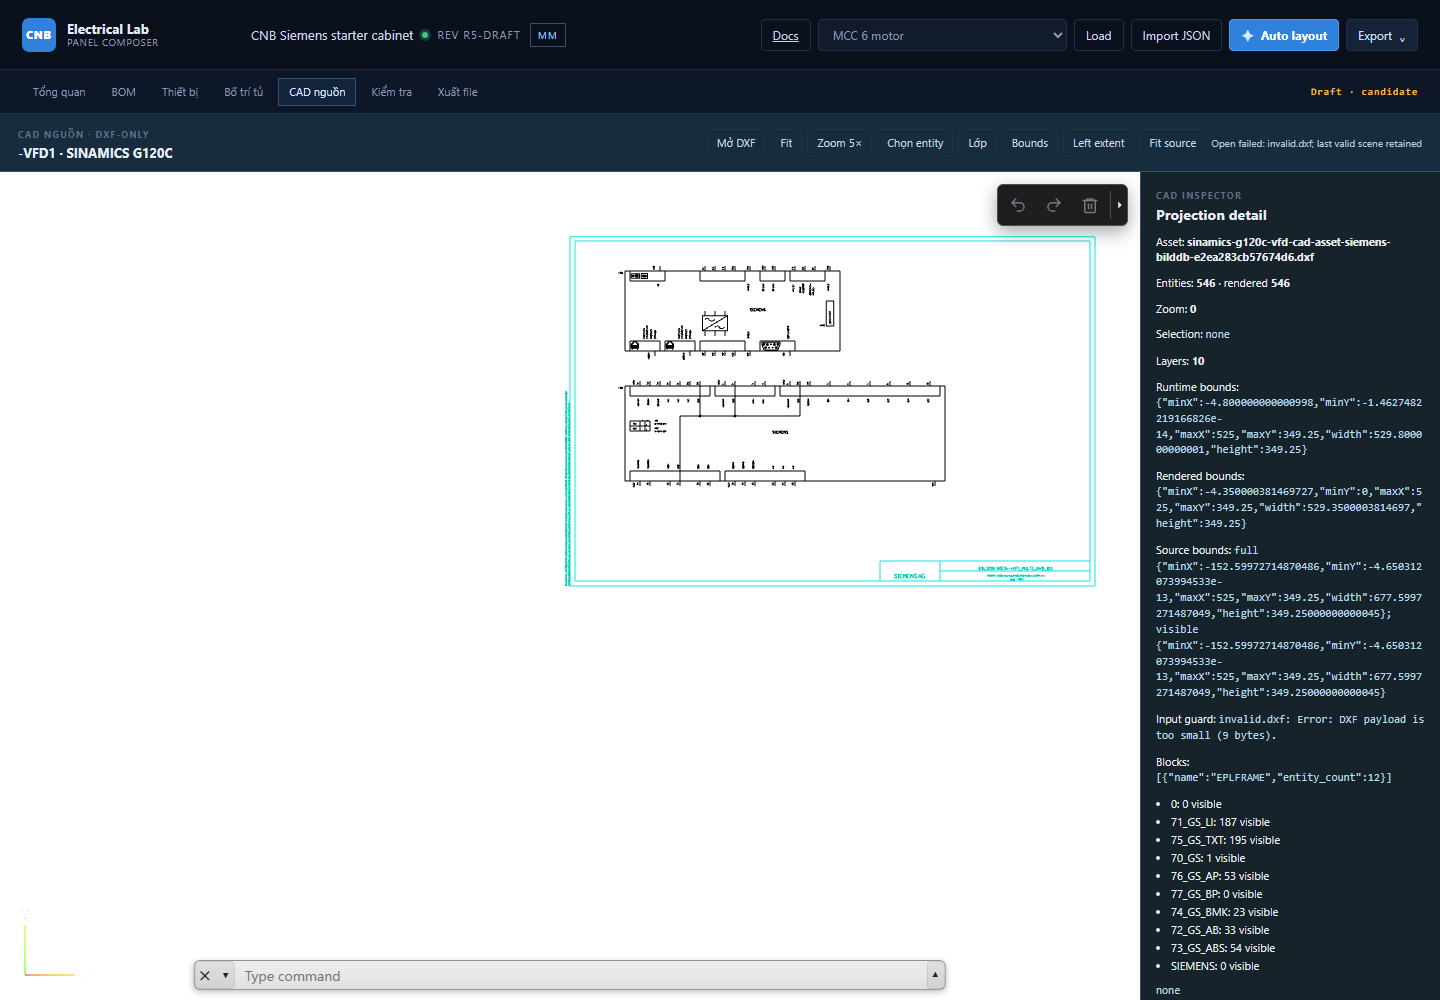
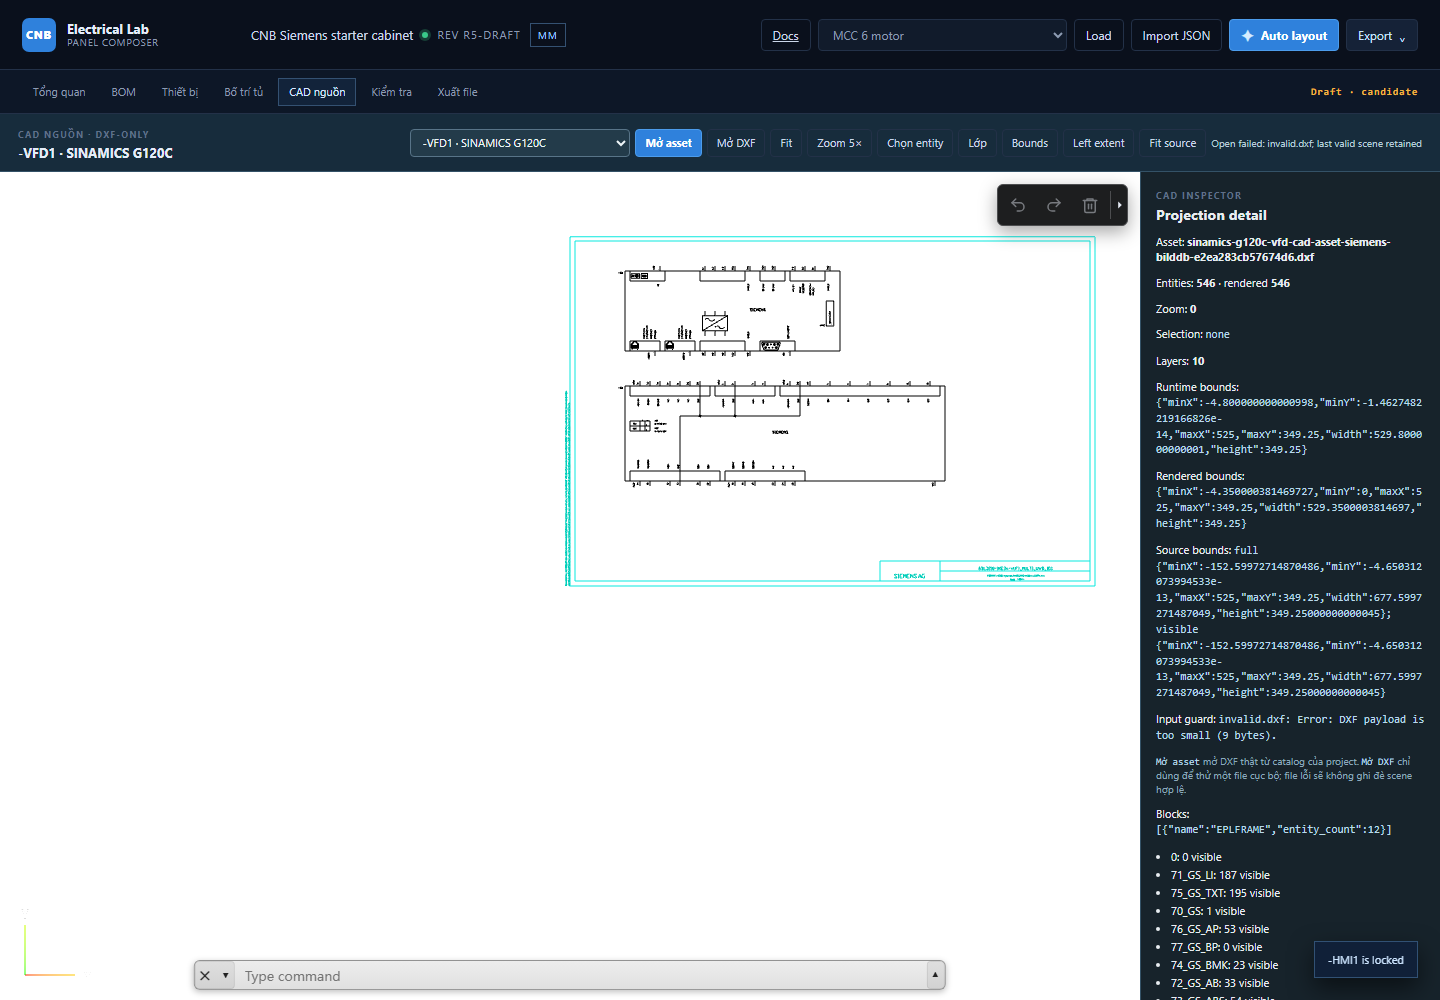
fix: make R5 CAD route directly usable

diff --git a/apps/engineering-web/engineering-shell.js b/apps/engineering-web/engineering-shell.js
@@ -39,6 +39,16 @@ function assetFor(device) {
   return { assetId: device?.cad_asset_ref || part.cad_asset_ref || part.source_asset_id, fileName: (part.cad_asset_ref || part.source_asset_id || '').split('/').pop() };
 }
 
+function cadSelectionFor(device) {
+  if (!device) return null;
+  const asset = assetFor(device);
+  return asset.assetId ? { ...asset, device } : null;
+}
+
+function cadDevices() {
+  return (state.eir?.devices || []).filter((device) => cadSelectionFor(device));
+}
+
 function workflowLabel() {
   return state.candidateRevision ? `DRAFT · candidate ${state.candidateRevision}` : `${state.eir?.workflow?.state || 'DRAFT'} · candidate`;
 }
@@ -64,6 +74,8 @@ function navigate(route, replace = false) {
   if (dashboard.hidden === false) renderDashboard();
   if (route === 'panel') { ensurePanelActions(); state.panel?.requireApp(); state.panel?.app?.render(); syncTruthInspector(); }
   if (route === 'cad') {
+    renderCadSourcePicker();
+    if (!state.selectedCadAsset) state.selectedCadAsset = cadSelectionFor(cadDevices()[0]);
     if (state.selectedCadAsset) void openCadAsset(state.selectedCadAsset);
     else renderCadEmpty();
   }
@@ -100,7 +112,10 @@ function renderDevices() {
 function renderValidation() {
   const issues = state.panel ? state.panel.app.validate() : [];
   const list = issues.length ? issues.map((issue) => `<div class="issue ${issue.severity === 'warn' ? 'warn' : ''}"><span class="issue-code">${esc(issue.code)}</span><div><strong>${esc(issue.message)}</strong><small>${esc(issue.hint || 'CNB validation')}</small></div></div>`).join('') : '<div class="all-clear"><span>✓</span><div><strong>Layout is clear</strong><small>No blocking issues</small></div></div>';
-  return `<section class="r5-card span-8"><span class="eyebrow">CNB VALIDATION</span><h1>Kiểm tra engineering</h1><p>Validation chạy trên panel projection nhưng rule ownership vẫn ở CNB.</p><div class="validation-list">${list}</div></section><section class="r5-card span-4"><h2>Review gate</h2><p><span class="r5-status">${esc(workflowLabel())}</span></p><p>Candidate placement chưa được duyệt sản xuất.</p><div class="r5-action-row"><a class="button primary" href="${routePath.panel}" data-route="panel">Sửa bố trí</a></div></section>`;
+  const errors = issues.filter((issue) => issue.severity === 'error').length;
+  const warnings = issues.length - errors;
+  const result = errors ? 'BLOCKED' : warnings ? 'REVIEW REQUIRED' : 'PASS';
+  return `<section class="r5-card span-8"><span class="eyebrow">CNB VALIDATION</span><h1>Kiểm tra engineering</h1><p>Đây là gate kiểm tra projection hiện tại, không tự duyệt placement. Cảnh báo preview-only là đúng vì ba CAD mapping vẫn là candidate.</p><div class="validation-summary"><span class="r5-status ${errors ? '' : 'ok'}">${result}</span><span>${errors} lỗi · ${warnings} cảnh báo</span></div><div class="validation-list">${list}</div><div class="r5-action-row"><button class="button primary compact" id="r5-run-validation" type="button">Chạy lại kiểm tra</button><span class="validation-run" id="r5-validation-run">${state.validationRunAt ? `Lần chạy cuối: ${esc(state.validationRunAt)}` : 'Chưa chạy thủ công'}</span></div></section><section class="r5-card span-4"><h2>Review gate</h2><p><span class="r5-status">${esc(workflowLabel())}</span></p><p>Candidate placement chưa được duyệt sản xuất.</p><div class="r5-action-row"><a class="button primary" href="${routePath.panel}" data-route="panel">Sửa bố trí</a></div></section>`;
 }
 
 function renderExport() {
@@ -113,6 +128,12 @@ function renderDashboard() {
   target.innerHTML = body;
   target.querySelectorAll('[data-route]').forEach((link) => link.addEventListener('click', (event) => { event.preventDefault(); navigate(link.dataset.route); }));
   target.querySelectorAll('.r5-view-cad').forEach((button) => button.addEventListener('click', () => { const device = deviceFor(button.dataset.deviceId); if (device) { state.selectedCadAsset = { ...assetFor(device), device }; navigate('cad'); } }));
+  $('#r5-run-validation')?.addEventListener('click', () => {
+    const issues = state.panel ? state.panel.app.validate() : [];
+    state.validationRunAt = new Date().toLocaleTimeString('vi-VN');
+    const output = $('#r5-validation-run');
+    if (output) output.textContent = `Đã chạy: ${state.validationRunAt} · ${issues.length} mục cần review`;
+  });
   $('#r5-export-dxf')?.addEventListener('click', () => void exportArtifact('dxf'));
   $('#r5-export-svg')?.addEventListener('click', () => void exportArtifact('svg'));
   $('#r5-export-audit')?.addEventListener('click', () => void exportArtifact('audit'));
@@ -139,6 +160,29 @@ function renderTruthInspector() {
   const device = deviceFor(component.id); const part = partFor(device); const identity = part.product_identity || {}; const footprint = part.footprint || {};
   section.innerHTML = `<div class="panel-heading"><div><span class="eyebrow">CNB PRODUCT TRUTH</span><h2>${esc(device?.tag || component.tag)}</h2></div><span class="selection-tag">${esc(identity.status || 'candidate')}</span></div><dl class="r5-truth-list"><div><dt>ProductIdentity</dt><dd>${esc(identity.type_designation || part.description)}</dd></div><div><dt>Manufacturer</dt><dd>${esc(part.manufacturer || 'unknown')}</dd></div><div><dt>Order code</dt><dd class="mono">${esc(identity.order_code || part.mpn || 'unknown')}</dd></div><div><dt>Footprint</dt><dd>${esc(footprint.width || component.width)} × ${esc(footprint.height || component.height)} × ${esc(footprint.depth || component.depth)} mm</dd></div><div><dt>Mounting</dt><dd>${esc(footprint.mounting || 'unknown')}</dd></div><div><dt>CAD representation</dt><dd>${esc(device?.cad_asset_ref || part.source_asset_id || 'none')}</dd></div><div><dt>placement-capable</dt><dd>false · candidate only</dd></div><div><dt>Workflow</dt><dd>${esc(workflowLabel())}</dd></div></dl><button class="button primary compact" id="r5-inspect-cad" type="button">Xem CAD nguồn</button>`;
   $('#r5-inspect-cad')?.addEventListener('click', () => { if (device) { state.selectedCadAsset = { ...assetFor(device), device }; navigate('cad'); } });
+}
+
+function renderCadSourcePicker() {
+  const select = $('#cadDeviceSelect');
+  const openButton = $('#openSelectedCad');
+  if (!select || !openButton || !state.eir) return;
+  const devices = cadDevices();
+  select.innerHTML = devices.map((device) => `<option value="${esc(device.id)}">${esc(device.tag)} · ${esc(device.name)}</option>`).join('');
+  const currentId = state.selectedCadAsset?.device?.id;
+  select.value = devices.some((device) => device.id === currentId) ? currentId : devices[0]?.id || '';
+  select.disabled = devices.length === 0;
+  openButton.disabled = devices.length === 0;
+  if (select.dataset.bound === 'true') return;
+  select.dataset.bound = 'true';
+  const openSelection = () => {
+    const device = deviceFor(select.value) || devices[0];
+    const selection = cadSelectionFor(device);
+    if (!selection) return;
+    state.selectedCadAsset = selection;
+    void openCadAsset(selection);
+  };
+  select.addEventListener('change', openSelection);
+  openButton.addEventListener('click', openSelection);
 }
 
 function syncTruthInspector() {
@@ -168,6 +212,7 @@ async function saveCandidate() {
 
 async function openCadAsset(selection) {
   const device = selection.device; const title = $('#cadAssetTitle'); if (title) title.textContent = `${device?.tag || ''} · ${device?.name || 'CAD source'}`;
+  const picker = $('#cadDeviceSelect'); if (picker && device?.id) picker.value = device.id;
   if (state.cadLoadedAssetId === selection.assetId && window.MLIGHTCAD_RUNTIME?.rendered === true) {
     state.cadState = window.MLIGHTCAD_RUNTIME;
     if ($('#status')) $('#status').textContent = `Loaded ${state.cadState.asset} · linked ${device?.tag || 'device'}`;

diff --git a/apps/engineering-web/engineering-shell.css b/apps/engineering-web/engineering-shell.css
@@ -37,7 +37,9 @@
 .r5-cad-view { overflow: hidden; background: #111820; }
 .r5-cad-toolbar { min-height: 58px; display: flex; align-items: center; justify-content: space-between; gap: 12px; padding: 9px 18px; border-bottom: 1px solid #345267; background: #172c3c; }
 .r5-cad-toolbar strong { display: block; margin-top: 3px; font-size: 13px; }.r5-cad-actions { display: flex; align-items: center; flex-wrap: wrap; justify-content: flex-end; gap: 5px; }.r5-cad-actions #status { color: #b8ccd8; font-size: 10px; }
+.cad-source-picker select { min-width: 220px; max-width: 280px; height: 28px; padding: 0 7px; border: 1px solid #587488; border-radius: 4px; background: #233b4a; color: #eef5f8; font-size: 11px; }.cad-source-picker select:focus { outline: 2px solid #60a5fa; outline-offset: 1px; }.r5-cad-actions button:disabled, .cad-source-picker select:disabled { cursor: not-allowed; opacity: .55; }
 .r5-cad-content { height: calc(100% - 58px); min-height: 0; display: grid; grid-template-columns: minmax(0, 1fr) 300px; }
 #cad-container { position: relative; min-width: 0; min-height: 0; overflow: hidden; background: #fff; }.r5-cad-content #cad-container canvas { display: block; }.r5-cad-content #debugOverlay { position: absolute; inset: 0; z-index: 4; width: 100%; height: 100%; pointer-events: none; overflow: visible; }.r5-cad-content #debugOverlay text { paint-order: stroke; stroke: #111; stroke-width: 3px; stroke-linejoin: round; }
-.r5-cad-inspector { min-height: 0; overflow: auto; padding: 15px; border-left: 1px solid #345267; background: #17232b; color: #e8edf1; font-size: 11px; }.r5-cad-inspector p { line-height: 1.35; }.r5-cad-inspector code, .r5-cad-inspector pre { color: #b9d9ea; word-break: break-word; white-space: pre-wrap; }.r5-cad-inspector ul { padding-left: 15px; }.r5-cad-inspector li { margin-bottom: 3px; }
+.r5-cad-inspector { min-height: 0; overflow: auto; padding: 15px; border-left: 1px solid #345267; background: #17232b; color: #e8edf1; font-size: 11px; }.r5-cad-inspector p { line-height: 1.35; }.r5-cad-inspector code, .r5-cad-inspector pre { color: #b9d9ea; word-break: break-word; white-space: pre-wrap; }.r5-cad-inspector ul { padding-left: 15px; }.r5-cad-inspector li { margin-bottom: 3px; }.cad-help { color: #8ca8bb; font-size: 10px; }
+.validation-summary { display: flex; align-items: center; gap: 10px; margin: 12px 0 3px; color: var(--muted); font-size: 10px; }.validation-run { color: var(--faint); font-size: 10px; }
 @media (max-width: 850px) { .engineering-nav { overflow-x: auto; padding: 0 10px; }.engineering-nav-status { display: none; }.workspace, .r5-view { height: calc(100vh - 114px); }.r5-dashboard-grid { padding: 14px; }.r5-card.span-4, .r5-card.span-6, .r5-card.span-8 { grid-column: 1 / -1; }.r5-cad-toolbar { align-items: flex-start; flex-direction: column; }.r5-cad-actions { justify-content: flex-start; }.r5-cad-content { grid-template-columns: 1fr; grid-template-rows: minmax(360px, 1fr) 250px; }.r5-cad-inspector { border-left: 0; border-top: 1px solid #345267; } }

diff --git a/apps/engineering-web/index.html b/apps/engineering-web/index.html
@@ -126,6 +126,8 @@
     <section class="r5-cad-toolbar">
       <div><span class="eyebrow">CAD NGUỒN · DXF-ONLY</span><strong id="cadAssetTitle">Chưa chọn CAD</strong></div>
       <div class="r5-cad-actions">
+        <label class="cad-source-picker"><span class="sr-only">Thiết bị có CAD nguồn</span><select id="cadDeviceSelect" aria-label="Thiết bị có CAD nguồn"></select></label>
+        <button class="button primary compact" id="openSelectedCad" type="button">Mở asset</button>
         <label class="button subtle compact file-button" for="fileInputElement">Mở DXF<input id="fileInputElement" type="file" accept=".dxf" /></label>
         <button class="button subtle compact" id="fitButton" type="button">Fit</button>
         <button class="button subtle compact" id="deepZoomButton" type="button">Zoom 5×</button>
@@ -151,6 +153,7 @@
         <p>Rendered bounds: <code id="renderedBoundsValue">none</code></p>
         <p>Source bounds: <code id="sourceBoundsValue">none</code></p>
         <p>Input guard: <code id="inputValidationValue">none</code></p>
+        <p class="cad-help"><code>Mở asset</code> mở DXF thật từ catalog của project. <code>Mở DXF</code> chỉ dùng để thử một file cục bộ; file lỗi sẽ không ghi đè scene hợp lệ.</p>
         <p>Blocks: <code id="blockValue">none</code></p>
         <ul id="layerList" data-testid="layer-list"></ul>
         <pre id="entityMetadata" data-testid="entity-metadata">none</pre>

diff --git a/docs/r5/R5_UNIFIED_WORKBENCH_REPORT.md b/docs/r5/R5_UNIFIED_WORKBENCH_REPORT.md
@@ -38,10 +38,13 @@ processes. Ports 4178/4179 remain experimental harnesses only.
 ## Runtime findings
 
 The pinned mlightcad DXF bundle renders KTP700 and G120C in the shared CAD tab.
+The tab opens KTP700 by default and exposes a project-device picker for G120C
+and SITOP, so a direct CAD route is useful without first visiting the panel.
 Selection, layer inventory, bounds overlays and source-fit controls are visible
 through the runtime bridge. The adapter obtains the real DXF basename from the
 API `Content-Disposition` header, so the runtime's `.dxf` input gate is honored
-while EIR IDs remain stable link keys.
+while EIR IDs remain stable link keys. The separate local `Mở DXF` control is
+reserved for invalid-input guard testing.
 
 Invalid input is rejected before `openDocument`; a valid last scene is retained.
 The browser test now waits for the target asset before injecting invalid input,
@@ -56,8 +59,8 @@ npm run build:web
 npm run test:r5
 ```
 
-The final result is `PASS_UNIFIED_ENGINEERING_WORKBENCH` with 18 checks, no page
-errors, 10 route switches, KTP700 and G120C load timings, and 13 screenshots.
+The final result is `PASS_UNIFIED_ENGINEERING_WORKBENCH` with 19 checks, no page
+errors, 11 route switches, KTP700 and G120C load timings, and 13 screenshots.
 The machine-readable result is [evidence/r5/runtime-result.json](../../evidence/r5/runtime-result.json).
 
 ## Scope limits

diff --git a/docs/r5/R5_RUNBOOK.md b/docs/r5/R5_RUNBOOK.md
@@ -29,11 +29,18 @@ The expected response identifies `cnb-engineering-api`.
    source link.
 4. Drag the HMI, lock it, and run `Reflow candidate`. The locked x coordinate
    must remain unchanged.
-5. Open `Xem CAD nguồn` and verify KTP700. Select the G120C and verify its
-   source drawing, bounds, layers and selection metadata.
-6. Open `Kiểm tra`, then `Xuất file` and run `Chạy audit JSON`; the output must
-   contain `"valid": true`.
-7. Return to `CAD nguồn`, open a malformed `.dxf` in the file control, and
+5. Open `CAD nguồn` directly. The first linked asset (KTP700) loads
+   automatically; use the device picker and `Mở asset` to switch to G120C or
+   SITOP. Verify the source drawing, bounds, layers and selection metadata.
+   `Mở DXF` is intentionally a local-file guard test, not the project asset
+   loader.
+6. Open `Kiểm tra`, click `Chạy lại kiểm tra`, and read the result. The three
+   `preview-only` warnings are expected because all R5 physical mappings are
+   candidate-only (`placement_capable: false`); this gate does not auto-approve
+   manufacturing placement.
+7. Open `Xuất file` and run `Chạy audit JSON`; the output must contain
+   `"valid": true`.
+8. Return to `CAD nguồn`, open a malformed `.dxf` in the file control, and
    verify `last valid scene retained` plus a non-zero rendered count.
 
 ## Verification commands
